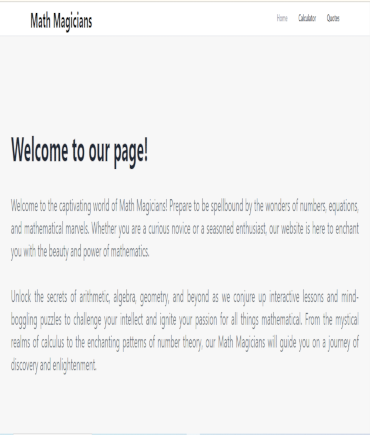
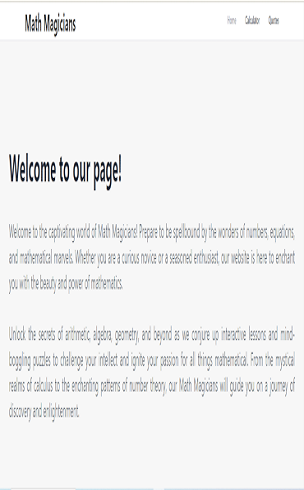
Add new photos and projects to my portfolio setup

diff --git a/js/menu.js b/js/menu.js
@@ -16,31 +16,29 @@ function mobileMenu() {
 const bannerProjects = [
   {
     Name: 'projectOne',
-    projectTitle: 'SpaceX App',
+    projectTitle: 'Ecommerce Site',
     projectDescription:
-      `In this task, we have worked with the real live data 
-      from the SpaceX API. Our task was to build a web 
-      application for a company that provides commercial 
-      and scientific space travel services. The application 
-      allows users to book rockets and join selected 
-      space missions.`,
-    tech: ['CSS', 'HTML', 'Reactjs', 'Javascript'],
-    img: 'icons/spacex.png',
-    live: 'https://bookrocketnasa.onrender.com/',
-    git: 'https://github.com/Kanyorok/spacex-project'
+      `This an ecommerce site that is made using Reactjs frontend
+      and Nodejs framework. The site is a solution to make a digital
+      solution to sell products online. It covers all major features
+      such as add to cart, payment gateway, shipment, and many more.`,
+    tech: ['CSS', 'HTML', 'Reactjs','Nodejs'],
+    img: 'icons/ecommerce.png',
+    live: 'https://kamandoradesigns.com/',
+    git: 'https://github.com/Kanyorok'
   },
 ];
 
 const projectInfo = [
   {
     id: 1,
-    projectName: 'Budget Application',
+    projectName: 'School Website',
     projectInfo:
-      "With its sleek design and intuitive interface, RubyBudget empowers users to track income and expenses, set budget goals, and receive insightful financial reports.",
-    tech: ['HTML', 'RoR', 'Postgres', 'CSS'],
-    img: 'icons/budget_app.png',
-    live: 'https://robbudget.onrender.com/',
-    git: 'https://github.com/Kanyorok/Robert-RubyBudget'
+      "This a school website that has been fully made using WordPress. It demonstrates expertise in customizing themes, integrating plugins for seamless functionality, and ensuring mobile responsiveness.",
+    tech: ['HTML', 'CSS', 'WordPress', 'Plugins'],
+    img: 'icons/jonathan.png',
+    live: 'https://jonathangloag.ac.ke/',
+    git: '#'
   },
   {
     id: 2,
@@ -54,13 +52,13 @@ const projectInfo = [
   },
   {
     id: 3,
-    projectName: 'BookStore',
+    projectName: 'Art Website',
     projectInfo:
       "The Bookstore is a website similar to the \"Awesome Books\". I have created a simplified version of it that allows a user to: Display a list of books, Add a book, and Remove a selected book.",
     tech: ['React', 'Redux', 'API', 'CSS'],
-    img: 'icons/books.png',
-    live: 'https://bookstore-2z7g.onrender.com/',
-    git: 'https://github.com/Kanyorok/bookstore'
+    img: 'icons/Artist_Website.png',
+    live: 'https://africanartistavni.co.ke/',
+    git: 'https://github.com/Kanyorok/Artist-website'
   },
   {
     id: 4,
@@ -78,7 +76,7 @@ const projectInfo = [
     projectInfo:
       "A replica of a commercial website that showcases skill in creating responsive website using the mobile-first approach",
     tech: ['HTML', 'Bootstrap', 'Ruby', 'CSS'],
-    img: 'icons/Data_content_image.svg',
+    img: 'icons/Tourism.png',
     live: 'https://kanyorok.github.io/CaptstoneProject/',
     git: 'https://github.com/Kanyorok/CaptstoneProject'
   },
@@ -88,7 +86,7 @@ const projectInfo = [
     projectInfo:
       "In this project, I have built a simple HTML list of To Do tasks. This simple web page is built using webpack and served by a webpack dev server.",
     tech: ['HTML', 'Bootstrap', 'Ruby', 'CSS'],
-    img: 'icons/website.svg',
+    img: 'icons/Todo.png',
     live: 'https://kanyorok.github.io/To-DoList/dist/',
     git: 'https://github.com/Kanyorok/To-DoList'
   },
@@ -100,7 +98,7 @@ function mainProject() {
   <img src=${presentProject.img} class="image_placement" alt="The Banner" />
   <div class="text_placement">
     <h2>${presentProject.projectTitle}</h2>
-    <p>${presentProject.projectDescription}</p>
+    <p class="info_starter">${presentProject.projectDescription}</p>
     <ul>
       <li>
         <a href="#">${presentProject.tech[0]}</a>
@@ -186,8 +184,8 @@ function showPopup() {
       <div class ="all_info">
         <p id="projectDesc"></p>
         <div class="bottom_section">
-          <a href="" id="extlink"><button id="projectSeven" type="button">See project <img src="icons/live_icon.svg" alt="" class="btnIcon"></button></a>
-          <a href="" id="gitlink"><button id="projectSeven" type="button">See project <img src="icons/github_2.svg" class="btnIcon"> </button></a>
+          <a href="" id="extlink"><button id="projectSeven" type="button">Visit Site <img src="icons/live_icon.svg" alt="" class="btnIcon"></button></a>
+          <a href="" id="gitlink"><button id="projectSeven" type="button">View Repo <img src="icons/github_2.svg" class="btnIcon"> </button></a>
         </div>
       </div>
     </div>

diff --git a/style.css b/style.css
@@ -223,7 +223,7 @@ body {
 
   .content_desc {
     position: relative;
-    width: 86%;
+    width: 91%;
   }
 
   .center_content {
@@ -667,7 +667,7 @@ body {
   .works_title {
     border-bottom: 2px solid #212121;
     height: 30px;
-    margin-bottom: 140px;
+    margin-bottom: 70px;
     margin-left: 154px;
     margin-right: 217px;
   }
@@ -932,9 +932,8 @@ body {
     color: #fff;
     border: 1px #ff6b00;
     padding: 0.75vw;
-    width: 7.75vw;
+    width: 8.75vw;
     height: 48px;
-    transition: height 2s, background-color 2s, rotate 2s;
   }
 
   .popup {
@@ -1013,6 +1012,14 @@ body {
     display: flex;
     align-items: center;
   }
+}
+
+#multiStories {
+  margin-bottom: 50px;
+}
+
+.info_starter {
+  text-align: justify !important;
 }
 
 .top_Section > * {
@@ -1133,7 +1140,6 @@ body {
   color: #fff;
   border: 1px #ff6b00;
   padding: 12px;
-  transition: height 2s, background-color 2s, rotate 2s;
 }
 
 .about_footer hr {
